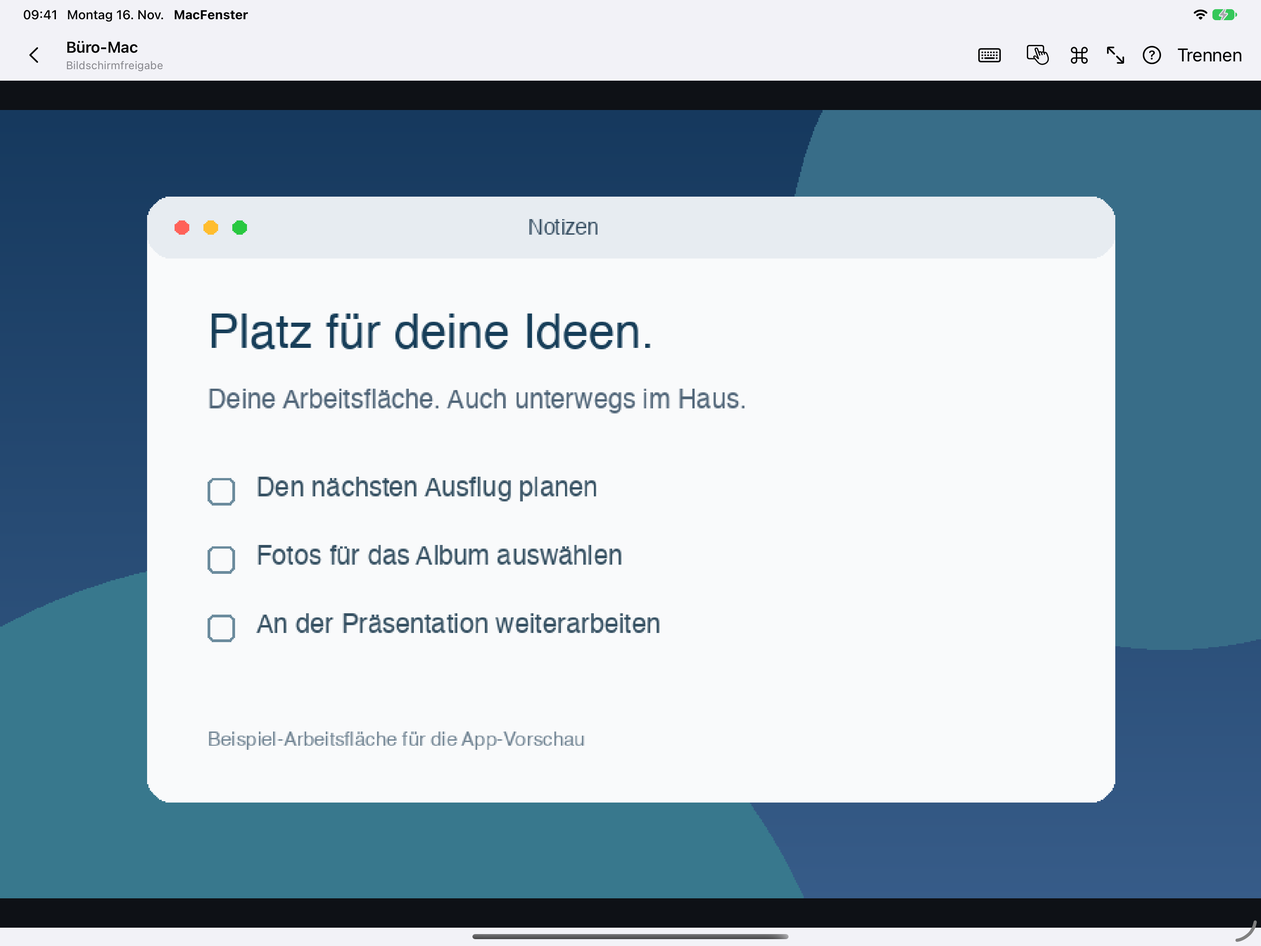
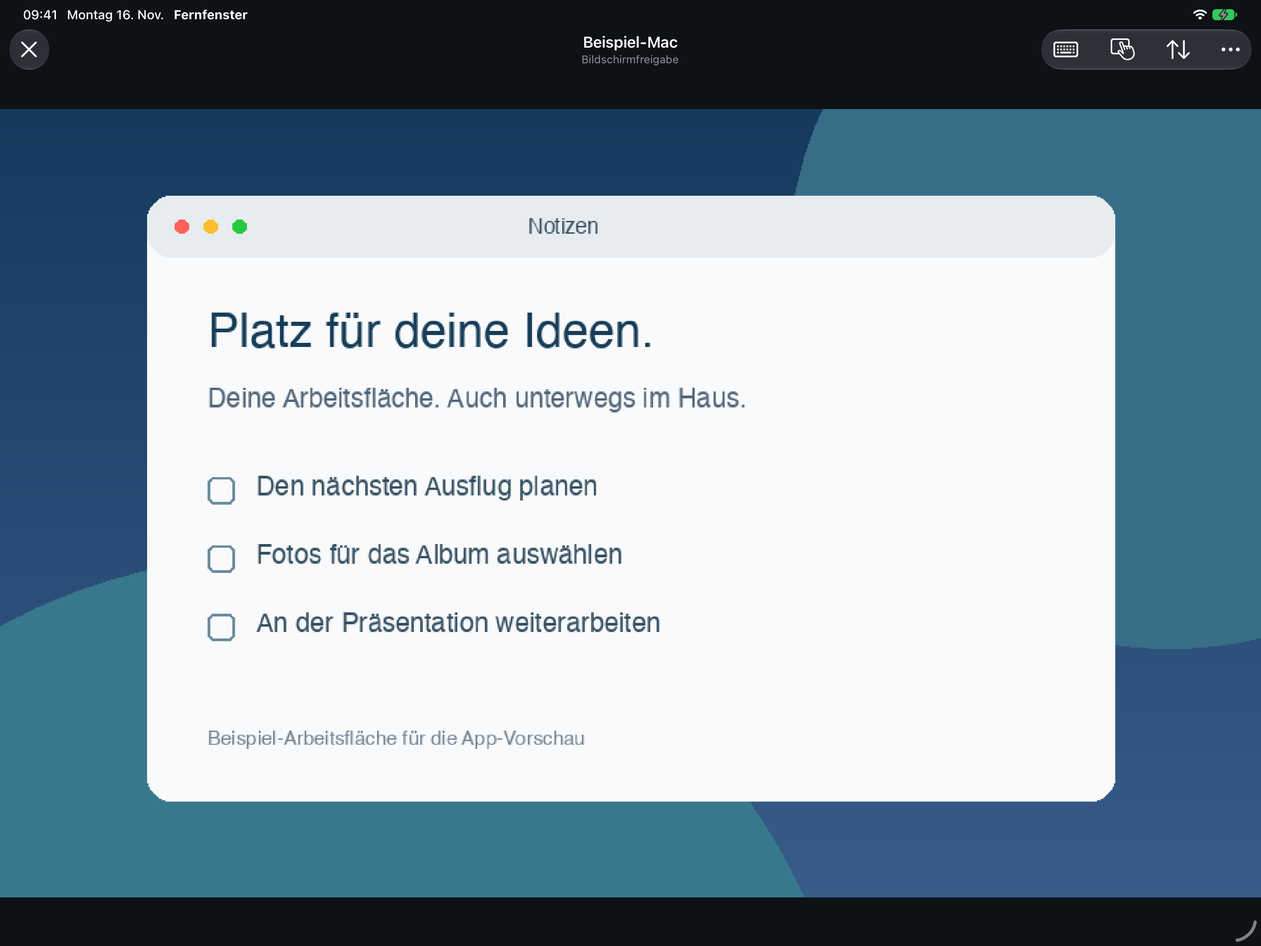
Publish Fernfenster branding and current build 19 images and source

diff --git a/index.html b/index.html
@@ -4,14 +4,14 @@
   <meta charset="utf-8">
   <meta name="viewport" content="width=device-width,initial-scale=1">
   <meta name="robots" content="noindex,nofollow">
-  <meta name="description" content="Deinen Mac auf iPad und iPhone bedienen. MacFenster verbindet sich direkt mit der eingebauten Bildschirmfreigabe – im gemeinsamen lokalen Netzwerk.">
-  <title>MacFenster – Bildschirmfreigabe auf iPad und iPhone</title>
+  <meta name="description" content="Deinen Mac auf iPad und iPhone bedienen. Fernfenster verbindet sich direkt mit der eingebauten Bildschirmfreigabe – im gemeinsamen lokalen Netzwerk.">
+  <title>Fernfenster – Bildschirmfreigabe auf iPad und iPhone</title>
   <link rel="icon" href="assets/portal.png" type="image/png">
   <link rel="stylesheet" href="styles.css">
   <link rel="canonical" href="https://nature0ne.github.io/macfenster-website/">
   <meta property="og:type" content="website">
   <meta property="og:url" content="https://nature0ne.github.io/macfenster-website/">
-  <meta property="og:title" content="MacFenster – Dein Mac auf iPad und iPhone.">
+  <meta property="og:title" content="Fernfenster – Dein Mac auf iPad und iPhone.">
   <meta property="og:description" content="Einfache Bildschirmfreigabe für deinen Mac. Direkt im selben Netzwerk mit Touch, Trackpad und Tastatur bedienen.">
   <meta property="og:image" content="https://nature0ne.github.io/macfenster-website/assets/share-screen-sharing.png">
   <meta name="twitter:card" content="summary_large_image">
@@ -19,7 +19,7 @@
 <body>
   <a class="skip" href="#inhalt">Zum Inhalt</a>
   <header class="site-header wrap">
-    <a class="brand" href="#" aria-label="MacFenster Startseite"><img src="assets/portal.png" width="44" height="44" alt=""><span>MacFenster</span></a>
+    <a class="brand" href="#" aria-label="Fernfenster Startseite"><img src="assets/portal.png" width="44" height="44" alt=""><span>Fernfenster</span></a>
     <nav aria-label="Hauptnavigation"><a href="#arbeitsflaeche">Arbeitsfläche</a><a href="#einrichten">Einrichten</a><a href="https://nature0ne.github.io/macfenster-website/support.html">Support <span aria-hidden="true">↗</span></a></nav>
   </header>
 
@@ -34,7 +34,7 @@
       </div>
       <figure class="hero-visual">
         <div class="window-outline outline-back" aria-hidden="true"></div><div class="window-outline outline-front" aria-hidden="true"></div>
-        <div class="app-window"><img src="assets/ipad-screen-sharing.png" width="2752" height="2064" alt="MacFenster auf dem iPad mit einer neutralen Beispiel-Arbeitsfläche über Bildschirmfreigabe." fetchpriority="high"></div>
+        <div class="app-window"><img src="assets/ipad-screen-sharing.png" width="2752" height="2064" alt="Fernfenster auf dem iPad mit einer neutralen Beispiel-Arbeitsfläche über Bildschirmfreigabe." fetchpriority="high"></div>
         <figcaption><span class="caption-line" aria-hidden="true"></span>Deinen Mac direkt auf dem iPad bedienen.</figcaption>
       </figure>
     </section>
@@ -43,7 +43,7 @@
 
     <section class="workspace wrap" id="arbeitsflaeche" aria-labelledby="workspace-title">
       <div><p class="eyebrow">Mehr als ein kleineres Bild</p><h2 id="workspace-title">Ein Fenster.<br>Passend zu dir.</h2></div>
-      <div class="workspace-copy"><p class="large-copy">Eine gut lesbare Arbeitsfläche auf deinem iPad. Oder ein Mac-Desktop, der sich mit deinem iPhone dreht.</p><p>Auf unterstützten Macs öffnet MacFenster einen nativen virtuellen Bildschirm. Er passt sich an die sichtbare Fläche deines Geräts an. Der physische Mac-Bildschirm bleibt separat.</p><p>Mit <strong>„Physischer Bildschirm“</strong> wechselst du zurück. Beim Umschalten verbindet sich die App kurz neu.</p><div class="window-pair" aria-hidden="true"><span></span><span></span></div></div>
+      <div class="workspace-copy"><p class="large-copy">Eine gut lesbare Arbeitsfläche auf deinem iPad. Oder ein Mac-Desktop, der sich mit deinem iPhone dreht.</p><p>Auf unterstützten Macs öffnet Fernfenster einen nativen virtuellen Bildschirm. Er passt sich an die sichtbare Fläche deines Geräts an. Der physische Mac-Bildschirm bleibt separat.</p><p>Mit <strong>„Physischer Bildschirm“</strong> wechselst du zurück. Beim Umschalten verbindet sich die App kurz neu.</p><div class="window-pair" aria-hidden="true"><span></span><span></span></div></div>
     </section>
 
     <section class="input-section wrap" aria-labelledby="input-title">
@@ -52,20 +52,20 @@
     </section>
 
     <section class="setup" id="einrichten" aria-labelledby="setup-title">
-      <div class="wrap setup-grid"><div class="setup-intro"><p class="eyebrow">Direkt verbunden</p><h2 id="setup-title">Nur dein Mac.<br>Und dein<br>Netzwerk.</h2><p>Kein zusätzliches MacFenster-Konto, kein Vermittlungsserver. Beide Geräte gehören ins gleiche vertrauenswürdige lokale Netzwerk.</p></div>
-      <ol class="setup-steps"><li><span class="step-number" aria-hidden="true">1</span><div><h3>Am Mac freigeben</h3><p>Öffne Systemeinstellungen → Allgemein → Teilen. Aktiviere „Bildschirmfreigabe“ und erlaube deinem Mac-Benutzer den Zugriff.</p></div></li><li><span class="step-number" aria-hidden="true">2</span><div><h3>Deinen Mac finden</h3><p>Erlaube MacFenster den lokalen Netzwerkzugriff. Dein Mac erscheint automatisch. Du kannst auch seine Adresse eingeben.</p></div></li><li><span class="step-number" aria-hidden="true">3</span><div><h3>Mit deinem Mac-Konto anmelden</h3><p>Verwende deinen Mac-Benutzernamen und dein Passwort. Auf Wunsch merkt sich der gerätegebundene Schlüsselbund das Passwort nach erfolgreicher Anmeldung.</p></div></li></ol></div>
+      <div class="wrap setup-grid"><div class="setup-intro"><p class="eyebrow">Direkt verbunden</p><h2 id="setup-title">Nur dein Mac.<br>Und dein<br>Netzwerk.</h2><p>Kein zusätzliches Fernfenster-Konto, kein Vermittlungsserver. Beide Geräte gehören ins gleiche vertrauenswürdige lokale Netzwerk.</p></div>
+      <ol class="setup-steps"><li><span class="step-number" aria-hidden="true">1</span><div><h3>Am Mac freigeben</h3><p>Öffne Systemeinstellungen → Allgemein → Teilen. Aktiviere „Bildschirmfreigabe“ und erlaube deinem Mac-Benutzer den Zugriff.</p></div></li><li><span class="step-number" aria-hidden="true">2</span><div><h3>Deinen Mac finden</h3><p>Erlaube Fernfenster den lokalen Netzwerkzugriff. Dein Mac erscheint automatisch. Du kannst auch seine Adresse eingeben.</p></div></li><li><span class="step-number" aria-hidden="true">3</span><div><h3>Mit deinem Mac-Konto anmelden</h3><p>Verwende deinen Mac-Benutzernamen und dein Passwort. Auf Wunsch merkt sich der gerätegebundene Schlüsselbund das Passwort nach erfolgreicher Anmeldung.</p></div></li></ol></div>
     </section>
 
     <section class="questions wrap" aria-labelledby="questions-title"><div><p class="eyebrow">Gut zu wissen</p><h2 id="questions-title">Bevor du loslegst.</h2><p class="questions-intro">Noch eine Frage?<br><a class="text-link" href="https://nature0ne.github.io/macfenster-website/support.html">Zum Support <span aria-hidden="true">↗</span></a></p></div><div class="answers">
       <details><summary>Was brauche ich dafür?</summary><p>Ein iPhone oder iPad mit iOS beziehungsweise iPadOS 18 oder neuer und einen Mac mit aktivierter Bildschirmfreigabe. Beide Geräte müssen im selben lokalen Netzwerk sein. Videoübertragung und virtuelle Bildschirme erfordern Unterstützung durch den Mac. Die App-Oberfläche ist auf Deutsch.</p></details>
-      <details><summary>Kann ich mich auch von unterwegs verbinden?</summary><p>MacFenster ist für das gemeinsame lokale Netzwerk gedacht. Ein Internetzugriff oder eine Verbindung zwischen verschiedenen Netzwerken wird nicht eingerichtet.</p></details>
-      <details><summary>Wie werden meine Daten behandelt?</summary><p>Die Verbindung geht direkt zu deinem Mac. MacFenster zeichnet deinen Bildschirm nicht auf. Passwortspeicherung ist freiwillig und an dein Gerät gebunden. Der klassische ARD/RFB-Rückfall verschlüsselt nicht den gesamten Datenstrom – verwende deshalb ein vertrauenswürdiges Netzwerk.</p></details>
+      <details><summary>Kann ich mich auch von unterwegs verbinden?</summary><p>Fernfenster ist für das gemeinsame lokale Netzwerk gedacht. Ein Internetzugriff oder eine Verbindung zwischen verschiedenen Netzwerken wird nicht eingerichtet.</p></details>
+      <details><summary>Wie werden meine Daten behandelt?</summary><p>Die Verbindung geht direkt zu deinem Mac. Fernfenster zeichnet deinen Bildschirm nicht auf. Passwortspeicherung ist freiwillig und an dein Gerät gebunden. Der klassische ARD/RFB-Rückfall verschlüsselt nicht den gesamten Datenstrom – verwende deshalb ein vertrauenswürdiges Netzwerk.</p></details>
       <details><summary>Was passiert, wenn ich die App verlasse?</summary><p>Im Hintergrund endet die Sitzung. Du kannst dich anschließend erneut verbinden.</p></details>
       <details><summary>Sind Audio und Dateitransfer enthalten?</summary><p>Auf unterstützten Macs kannst du Mac-Ton wiedergeben und Dateien bewusst senden oder empfangen. Die automatische Zwischenablage ist zunächst ausgeschaltet und wird in den Einstellungen aktiviert. Audio benötigt den unterstützten Videostream und ist bei voller Bildqualität nicht verfügbar.</p></details>
     </div></section>
 
-    <section class="closing wrap"><img src="assets/portal.png" alt="" width="64" height="64"><div><p>Dein nächstes Fenster zum Mac.</p><span>MacFenster für iPhone und iPad · Veröffentlichung in Vorbereitung</span></div><a class="text-link" href="https://nature0ne.github.io/macfenster-website/support.html">Fragen zur App <span aria-hidden="true">↗</span></a></section>
+    <section class="closing wrap"><img src="assets/portal.png" alt="" width="64" height="64"><div><p>Dein nächstes Fenster zum Mac.</p><span>Fernfenster für iPhone und iPad · Veröffentlichung in Vorbereitung</span></div><a class="text-link" href="https://nature0ne.github.io/macfenster-website/support.html">Fragen zur App <span aria-hidden="true">↗</span></a></section>
   </main>
-  <footer class="site-footer wrap"><p>MacFenster ist eine unabhängige App und kein Produkt von Apple.</p><nav aria-label="Rechtliches"><a href="source.html">Quellcode &amp; Lizenzen</a><a href="https://nature0ne.github.io/macfenster-website/support.html">Support</a><a href="https://nature0ne.github.io/macfenster-website/privacy.html">Datenschutz</a><a href="https://nature0ne.github.io/macfenster-website/impressum.html">Impressum</a></nav></footer>
+  <footer class="site-footer wrap"><p>Fernfenster ist eine unabhängige App und kein Produkt von Apple.</p><nav aria-label="Rechtliches"><a href="source.html">Quellcode &amp; Lizenzen</a><a href="https://nature0ne.github.io/macfenster-website/support.html">Support</a><a href="https://nature0ne.github.io/macfenster-website/privacy.html">Datenschutz</a><a href="https://nature0ne.github.io/macfenster-website/impressum.html">Impressum</a></nav></footer>
 </body>
 </html>

diff --git a/privacy.html b/privacy.html
@@ -1,1 +1,1 @@
-<!doctype html><html lang="de"><head><meta charset="utf-8"><meta name="viewport" content="width=device-width,initial-scale=1"><title>Datenschutzerklärung – MacFenster</title><meta name="description" content="MacFenster: Bildschirmfreigabe für deinen Mac auf iPad und iPhone. Hilfe, Kontakt und Datenschutz."><link rel="icon" href="assets/icon.png"><link rel="stylesheet" href="style.css"></head><body><header><a class="brand" href="index.html"><img src="assets/icon.png" alt="" width="42" height="42">MacFenster</a><nav aria-label="Hauptnavigation"><a href="index.html">Die App</a><a href="support.html">Support</a><a href="privacy.html">Datenschutz</a></nav></header><main><div class="eyebrow">Datenschutz · Stand 16. November 2026</div><h1>Deine Verbindung und deine Daten.</h1><p>Verantwortlich für MacFenster und diese Website: Sascha Bommels, Flandernstr. 18, 46147 Oberhausen, Deutschland. Kontakt: <a href="mailto:stockscansupport+macfenster@gmail.com">stockscansupport+macfenster@gmail.com</a>.</p><h2>Direkte Verbindung zum Mac</h2><p>Die App sucht mit Bonjour nach Bildschirmfreigaben im lokalen Netzwerk. Hostnamen, Adressen und die erforderlichen Zugangsdaten werden zur Verbindung mit dem von dir ausgewählten Mac verwendet. Bildschirmdaten und Eingaben werden direkt zwischen deinen Geräten übertragen. Es gibt keinen MacFenster-Vermittlungsserver und keinen Entwicklerzugriff auf deine Sitzung.</p><h2>Lokale Speicherung</h2><p>Gespeicherte Rechner, Adressen, Benutzernamen und der Zeitpunkt der letzten Verbindung bleiben im App-Bereich auf deinem Gerät. Nur auf Wunsch wird ein Passwort nach erfolgreicher Anmeldung im gerätegebundenen Schlüsselbund gespeichert. Während der laufenden Sitzung hält die App Zugangsdaten im Arbeitsspeicher, auch für einen Wechsel der Bildschirmansicht. Beim Trennen verwirft sie diese Referenzen. Die App zeichnet keine Bildschirmbilder auf und speichert sie nicht als Vorschau.</p><p>Je nach deinen Systemeinstellungen können gespeicherte Rechnerdaten in einem lokalen Gerätebackup oder iCloud-Gerätebackup enthalten sein. Diese von dir verwaltete Systemsicherung ist keine Übermittlung an den MacFenster-Entwickler. Gespeicherte Passwörter sind im Schlüsselbund an das Gerät gebunden und werden nicht über den iCloud-Schlüsselbund synchronisiert.</p><h2>Keine Werbung und kein Tracking in der App</h2><p>MacFenster enthält keine Werbe-SDKs, kein Tracking und keine vom Entwickler betriebene Nutzungsanalyse. Sitzungsdaten werden nicht an den Entwickler hochgeladen. Für App Store, TestFlight sowie von Apple bereitgestellte Kauf- und Diagnosedienste gelten zusätzlich die Einstellungen und Bedingungen von Apple.</p><h2>Löschen und Verbindung beenden</h2><p>„Mac entfernen“ löscht die gespeicherte Verbindung und deren Schlüsselbund-Eintrag. Du kannst die Sitzung jederzeit trennen und den lokalen Netzwerkzugriff in den Geräteeinstellungen entziehen. Der Schutz hängt vom ausgehandelten Protokoll ab: Der klassische ARD/RFB-Rückfall verschlüsselt nicht den gesamten Datenstrom. Verwende ein vertrauenswürdiges Netzwerk.</p><h2>Diese Website</h2><p>Die statische Website nutzt keine Analyse-Skripte, Werbe-Cookies oder extern geladenen Schriftarten. GitHub Pages liefert sie aus. GitHub verarbeitet beim Abruf technische Verbindungsdaten, darunter IP-Adresse und Abrufinformationen, nach seiner <a href="https://docs.github.com/en/site-policy/privacy-policies/github-general-privacy-statement">Datenschutzerklärung</a>. Diese Hosting-Daten stammen nicht aus einer MacFenster-Sitzung.</p><h2>Support</h2><p>Bei einer Anfrage werden deine E-Mail-Adresse und freiwillig übermittelte Angaben zur Bearbeitung genutzt. E-Mail wird über Gmail verarbeitet; siehe <a href="https://policies.google.com/privacy">Google-Datenschutzerklärung</a>. GitHub-Support-Tickets sind öffentlich. Übermittle dort keine vertraulichen Daten.</p><p>Support-Daten werden gelöscht, sobald sie zur Bearbeitung nicht mehr erforderlich sind, soweit keine gesetzlichen Aufbewahrungspflichten bestehen. Rechtsgrundlage für produktbezogene Anfragen ist Art. 6 Abs. 1 lit. b DSGVO, für sonstige berechtigte Anliegen Art. 6 Abs. 1 lit. f DSGVO.</p><h2>Deine Rechte</h2><p>Soweit personenbezogene Daten verarbeitet werden, bestehen insbesondere Rechte auf Auskunft, Berichtigung, Löschung und Einschränkung sowie gegebenenfalls Widerspruch und Datenübertragbarkeit. Du kannst dich bei einer Datenschutzaufsichtsbehörde beschweren. Kontakt für Anfragen: <a href="mailto:stockscansupport+macfenster@gmail.com">stockscansupport+macfenster@gmail.com</a>.</p></main><footer><nav aria-label="Rechtliches"><a href="support.html">Support</a><a href="source.html">Quellcode &amp; Lizenzen</a><a href="privacy.html">Datenschutz</a><a href="impressum.html">Impressum</a></nav>© 2026 Sascha Bommels · Unabhängige App für iPhone und iPad.</footer></body></html>
+<!doctype html><html lang="de"><head><meta charset="utf-8"><meta name="viewport" content="width=device-width,initial-scale=1"><title>Datenschutzerklärung – Fernfenster</title><meta name="description" content="Fernfenster: Bildschirmfreigabe für deinen Mac auf iPad und iPhone. Hilfe, Kontakt und Datenschutz."><link rel="icon" href="assets/icon.png"><link rel="stylesheet" href="style.css"></head><body><header><a class="brand" href="index.html"><img src="assets/icon.png" alt="" width="42" height="42">Fernfenster</a><nav aria-label="Hauptnavigation"><a href="index.html">Die App</a><a href="support.html">Support</a><a href="privacy.html">Datenschutz</a></nav></header><main><div class="eyebrow">Datenschutz · Stand 16. November 2026</div><h1>Deine Verbindung und deine Daten.</h1><p>Verantwortlich für Fernfenster und diese Website: Sascha Bommels, Flandernstr. 18, 46147 Oberhausen, Deutschland. Kontakt: <a href="mailto:stockscansupport+macfenster@gmail.com">stockscansupport+macfenster@gmail.com</a>.</p><h2>Direkte Verbindung zum Mac</h2><p>Die App sucht mit Bonjour nach Bildschirmfreigaben im lokalen Netzwerk. Hostnamen, Adressen und die erforderlichen Zugangsdaten werden zur Verbindung mit dem von dir ausgewählten Mac verwendet. Bildschirmdaten und Eingaben werden direkt zwischen deinen Geräten übertragen. Es gibt keinen Fernfenster-Vermittlungsserver und keinen Entwicklerzugriff auf deine Sitzung.</p><h2>Lokale Speicherung</h2><p>Gespeicherte Rechner, Adressen, Benutzernamen und der Zeitpunkt der letzten Verbindung bleiben im App-Bereich auf deinem Gerät. Nur auf Wunsch wird ein Passwort nach erfolgreicher Anmeldung im gerätegebundenen Schlüsselbund gespeichert. Während der laufenden Sitzung hält die App Zugangsdaten im Arbeitsspeicher, auch für einen Wechsel der Bildschirmansicht. Beim Trennen verwirft sie diese Referenzen. Die App zeichnet keine Bildschirmbilder auf und speichert sie nicht als Vorschau.</p><p>Je nach deinen Systemeinstellungen können gespeicherte Rechnerdaten in einem lokalen Gerätebackup oder iCloud-Gerätebackup enthalten sein. Diese von dir verwaltete Systemsicherung ist keine Übermittlung an den Fernfenster-Entwickler. Gespeicherte Passwörter sind im Schlüsselbund an das Gerät gebunden und werden nicht über den iCloud-Schlüsselbund synchronisiert.</p><h2>Keine Werbung und kein Tracking in der App</h2><p>Fernfenster enthält keine Werbe-SDKs, kein Tracking und keine vom Entwickler betriebene Nutzungsanalyse. Sitzungsdaten werden nicht an den Entwickler hochgeladen. Für App Store, TestFlight sowie von Apple bereitgestellte Kauf- und Diagnosedienste gelten zusätzlich die Einstellungen und Bedingungen von Apple.</p><h2>Löschen und Verbindung beenden</h2><p>„Mac entfernen“ löscht die gespeicherte Verbindung und deren Schlüsselbund-Eintrag. Du kannst die Sitzung jederzeit trennen und den lokalen Netzwerkzugriff in den Geräteeinstellungen entziehen. Der Schutz hängt vom ausgehandelten Protokoll ab: Der klassische ARD/RFB-Rückfall verschlüsselt nicht den gesamten Datenstrom. Verwende ein vertrauenswürdiges Netzwerk.</p><h2>Diese Website</h2><p>Die statische Website nutzt keine Analyse-Skripte, Werbe-Cookies oder extern geladenen Schriftarten. GitHub Pages liefert sie aus. GitHub verarbeitet beim Abruf technische Verbindungsdaten, darunter IP-Adresse und Abrufinformationen, nach seiner <a href="https://docs.github.com/en/site-policy/privacy-policies/github-general-privacy-statement">Datenschutzerklärung</a>. Diese Hosting-Daten stammen nicht aus einer Fernfenster-Sitzung.</p><h2>Support</h2><p>Bei einer Anfrage werden deine E-Mail-Adresse und freiwillig übermittelte Angaben zur Bearbeitung genutzt. E-Mail wird über Gmail verarbeitet; siehe <a href="https://policies.google.com/privacy">Google-Datenschutzerklärung</a>. GitHub-Support-Tickets sind öffentlich. Übermittle dort keine vertraulichen Daten.</p><p>Support-Daten werden gelöscht, sobald sie zur Bearbeitung nicht mehr erforderlich sind, soweit keine gesetzlichen Aufbewahrungspflichten bestehen. Rechtsgrundlage für produktbezogene Anfragen ist Art. 6 Abs. 1 lit. b DSGVO, für sonstige berechtigte Anliegen Art. 6 Abs. 1 lit. f DSGVO.</p><h2>Deine Rechte</h2><p>Soweit personenbezogene Daten verarbeitet werden, bestehen insbesondere Rechte auf Auskunft, Berichtigung, Löschung und Einschränkung sowie gegebenenfalls Widerspruch und Datenübertragbarkeit. Du kannst dich bei einer Datenschutzaufsichtsbehörde beschweren. Kontakt für Anfragen: <a href="mailto:stockscansupport+macfenster@gmail.com">stockscansupport+macfenster@gmail.com</a>.</p></main><footer><nav aria-label="Rechtliches"><a href="support.html">Support</a><a href="source.html">Quellcode &amp; Lizenzen</a><a href="privacy.html">Datenschutz</a><a href="impressum.html">Impressum</a></nav>© 2026 Sascha Bommels · Unabhängige App für iPhone und iPad.</footer></body></html>

diff --git a/source.html b/source.html
@@ -1,7 +1,11 @@
 <!doctype html>
-<html lang="de"><head><meta charset="utf-8"><meta name="viewport" content="width=device-width,initial-scale=1"><title>Quellcode &amp; Lizenzen – MacFenster</title><meta name="description" content="Vollständiger MacFenster-Quellcode unter GPLv3 mit Bibliotheken, Bauanleitung und Prüfsummen."><link rel="icon" href="assets/icon.png"><link rel="stylesheet" href="style.css"><link rel="canonical" href="https://nature0ne.github.io/macfenster-website/source.html"></head>
-<body><header><a class="brand" href="index.html"><img src="assets/icon.png" alt="" width="42" height="42">MacFenster</a><nav aria-label="Hauptnavigation"><a href="index.html">Die App</a><a href="support.html">Support</a><a href="source.html" aria-current="page">Quellcode</a></nav></header>
-<main><div class="eyebrow">Quellcode &amp; Lizenzen</div><h1>Offen zum Nachbauen.</h1><p class="lead">MacFenster steht unter der GNU General Public License, Version 3 oder neuer. Hier erhältst du den vollständigen Quellcode samt Bibliotheken und Bauanleitung ohne zusätzliche Kosten.</p>
+<html lang="de"><head><meta charset="utf-8"><meta name="viewport" content="width=device-width,initial-scale=1"><title>Quellcode &amp; Lizenzen – Fernfenster</title><meta name="description" content="Vollständiger Fernfenster-Quellcode unter GPLv3 mit Bibliotheken, Bauanleitung und Prüfsummen."><link rel="icon" href="assets/icon.png"><link rel="stylesheet" href="style.css"><link rel="canonical" href="https://nature0ne.github.io/macfenster-website/source.html"></head>
+<body><header><a class="brand" href="index.html"><img src="assets/icon.png" alt="" width="42" height="42">Fernfenster</a><nav aria-label="Hauptnavigation"><a href="index.html">Die App</a><a href="support.html">Support</a><a href="source.html" aria-current="page">Quellcode</a></nav></header>
+<main><div class="eyebrow">Quellcode &amp; Lizenzen</div><h1>Offen zum Nachbauen.</h1><p class="lead">Fernfenster steht unter der GNU General Public License, Version 3 oder neuer. Hier erhältst du den vollständigen Quellcode samt Bibliotheken und Bauanleitung ohne zusätzliche Kosten.</p>
+<p>Frühere Testversionen wurden unter dem Namen MacFenster veröffentlicht. Die folgenden Quellcode-Pakete behalten ihre ursprünglichen Dateinamen und Prüfsummen.</p>
+<h2>Fernfenster 1.0 · Beta-Build 19</h2><p>Dieses Paket gehört zu Fernfenster, dem neuen Namen der zuvor als MacFenster getesteten App. Der interne Projektname bleibt für bestehende Verbindungen und Zugangsdaten erhalten. Funktionen und Standards der nativen Bildschirmfreigabe bleiben bestehen.</p>
+<p><a class="button" href="https://github.com/Nature0ne/macfenster-website/releases/download/source-1.0-build19/Fernfenster-1.0-build19-Source.zip">Quellcode zu Build 19 herunterladen · 179,6 MiB</a></p><p><a href="https://github.com/Nature0ne/macfenster-website/releases/download/source-1.0-build19/Fernfenster-1.0-build19-Source.zip.sha256">SHA-256-Prüfsumme herunterladen</a> · <a href="https://github.com/Nature0ne/macfenster-website/releases/tag/source-1.0-build19">Versionierte Downloadseite</a></p>
+<p>SHA-256: <code style="overflow-wrap:anywhere">0dbce93f5ad74f9e4df2643779e1d432cee5b0f0468317ae549c5425883803bf</code></p>
 <h2>Version 1.0 · Beta-Build 18</h2><p>Dieses Paket gehört zur Testversion mit der neuen nativen Oberfläche: angepasste Mac-Übersicht, System-Werkzeugleisten, lesbare Formulare und Unterstützung großer Schrift. Die Funktionen aus Build 17 bleiben erhalten. Nutze immer das zu deiner installierten Buildnummer passende Paket.</p>
 <p><a class="button" href="https://github.com/Nature0ne/macfenster-website/releases/download/source-1.0-build18/MacFenster-1.0-build18-Source.zip">Quellcode zu Build 18 herunterladen · 179,6 MiB</a></p><p><a href="https://github.com/Nature0ne/macfenster-website/releases/download/source-1.0-build18/MacFenster-1.0-build18-Source.zip.sha256">SHA-256-Prüfsumme herunterladen</a> · <a href="https://github.com/Nature0ne/macfenster-website/releases/tag/source-1.0-build18">Versionierte Downloadseite</a></p>
 <p>SHA-256: <code style="overflow-wrap:anywhere">076ca5ee0d71455dc6a8e532430a91306cb9c4afe81d5368f53a61683249216d</code></p>
@@ -11,7 +15,7 @@
 <h2>Version 1.0 · Build 16</h2><p>Die App-Store-Veröffentlichung wird vorbereitet. Dieses Paket enthält den zu Build 16 gehörenden Quellcode für iPhone und iPad.</p>
 <p><a class="button" href="https://github.com/Nature0ne/macfenster-website/releases/download/source-1.0-build16/MacFenster-1.0-build16-Source.zip">Quellcode herunterladen · 179,5 MiB</a></p><p><a href="https://github.com/Nature0ne/macfenster-website/releases/download/source-1.0-build16/MacFenster-1.0-build16-Source.zip.sha256">SHA-256-Prüfsumme herunterladen</a> · <a href="https://github.com/Nature0ne/macfenster-website/releases/tag/source-1.0-build16">Versionierte Downloadseite</a></p>
 <p>SHA-256: <code style="overflow-wrap:anywhere">651ab1651aaa1c42d9588251907b5025105bdbb9f150dfe637dc88208885bc96</code></p>
-<h2>Was ist enthalten?</h2><ul><li>MacFenster-App, Protokollkern, Icon-Quellen und Xcode-Projekt.</li><li>Die festgelegten Swift- und Go-Bibliotheken mit ihren Lizenzhinweisen.</li><li>Bauanleitung, Skript für einen unsignierten Nachbau und Datei-Prüfsummen.</li></ul><p>Das Build-16-Paket wurde mit Xcode und Go neu gebaut: für iOS und den iOS-Simulator beim Protokollkern sowie als unsignierte iOS-App. Build 17 enthält dieselben festgelegten Abhängigkeiten und den aktualisierten App-Quellcode. Build 18 verwendet ebenfalls diese unveränderten Abhängigkeiten. Der App-Teil von Build 18 wurde aus dem entpackten Paket erfolgreich unsigniert gebaut, mit dem bereits geprüften Protokollkern. Ein vollständiger erneuter Offline-Nachbau einschließlich des Go-Kerns wurde für Build 17 und 18 nicht durchgeführt. Für eine eigene Installation benötigst du die Apple-Werkzeuge und eine eigene Signierung. Die Anleitung steht in <code>SOURCE_README.md</code> im Paket.</p>
-<h2>Deine Rechte am Code</h2><p>Die GPL erlaubt die Nutzung, Untersuchung, Änderung und Weitergabe unter ihren Bedingungen. Ein App-Kaufpreis ändert diese Rechte nicht. Die ursprünglichen Urheber- und Lizenzhinweise der eingebundenen Bibliotheken bleiben erhalten. Es gelten die Gewährleistungshinweise der Lizenzen und zwingende gesetzliche Rechte.</p><p><a href="gpl-3.0.txt">Vollständiger GPLv3-Lizenztext</a> · <a href="third-party-licenses.txt">Lizenzhinweise der Bibliotheken</a></p><p>MacFenster ist unabhängig von Apple und den Entwicklern von OpenScreenSharing/Libsharing. Der Download enthält Quellcode; er ist kein fertig signiertes App-Installationspaket.</p>
+<h2>Was ist enthalten?</h2><ul><li>App-Quellcode von Fernfenster und den früheren Testversionen unter MacFenster, Protokollkern, Icon-Quellen und Xcode-Projekt.</li><li>Die festgelegten Swift- und Go-Bibliotheken mit ihren Lizenzhinweisen.</li><li>Bauanleitung, Skript für einen unsignierten Nachbau und Datei-Prüfsummen.</li></ul><p>Das Build-16-Paket wurde mit Xcode und Go neu gebaut: für iOS und den iOS-Simulator beim Protokollkern sowie als unsignierte iOS-App. Build 17 enthält dieselben festgelegten Abhängigkeiten und den aktualisierten App-Quellcode. Build 18 verwendet ebenfalls diese unveränderten Abhängigkeiten. Der App-Teil von Build 18 wurde aus dem entpackten Paket erfolgreich unsigniert gebaut, mit dem bereits geprüften Protokollkern. Auch der App-Teil von Fernfenster Build 19 wurde aus seinem entpackten Paket erfolgreich unsigniert gebaut, mit dem bereits geprüften, unveränderten Protokollkern. Ein vollständiger erneuter Offline-Nachbau einschließlich des Go-Kerns wurde für Build 17, 18 und 19 nicht durchgeführt. Für eine eigene Installation benötigst du die Apple-Werkzeuge und eine eigene Signierung. Die Anleitung steht in <code>SOURCE_README.md</code> im Paket.</p>
+<h2>Deine Rechte am Code</h2><p>Die GPL erlaubt die Nutzung, Untersuchung, Änderung und Weitergabe unter ihren Bedingungen. Ein App-Kaufpreis ändert diese Rechte nicht. Die ursprünglichen Urheber- und Lizenzhinweise der eingebundenen Bibliotheken bleiben erhalten. Es gelten die Gewährleistungshinweise der Lizenzen und zwingende gesetzliche Rechte.</p><p><a href="gpl-3.0.txt">Vollständiger GPLv3-Lizenztext</a> · <a href="third-party-licenses.txt">Lizenzhinweise der Bibliotheken</a></p><p>Fernfenster ist unabhängig von Apple und den Entwicklern von OpenScreenSharing/Libsharing. Der Download enthält Quellcode; er ist kein fertig signiertes App-Installationspaket.</p>
 <h2>Fragen zum Quellcode?</h2><p><a href="mailto:stockscansupport+macfenster@gmail.com">stockscansupport+macfenster@gmail.com</a></p></main>
 <footer><nav aria-label="Rechtliches"><a href="support.html">Support</a><a href="source.html">Quellcode &amp; Lizenzen</a><a href="privacy.html">Datenschutz</a><a href="impressum.html">Impressum</a></nav>© 2026 Sascha Bommels · Unabhängige App für iPhone und iPad.</footer></body></html>

diff --git a/support.html b/support.html
@@ -1,1 +1,1 @@
-<!doctype html><html lang="de"><head><meta charset="utf-8"><meta name="viewport" content="width=device-width,initial-scale=1"><title>Support – MacFenster</title><meta name="description" content="MacFenster: Bildschirmfreigabe für deinen Mac auf iPad und iPhone. Hilfe, Kontakt und Datenschutz."><link rel="icon" href="assets/icon.png"><link rel="stylesheet" href="style.css"></head><body><header><a class="brand" href="index.html"><img src="assets/icon.png" alt="" width="42" height="42">MacFenster</a><nav aria-label="Hauptnavigation"><a href="index.html">Die App</a><a href="support.html">Support</a><a href="privacy.html">Datenschutz</a></nav></header><main><div class="eyebrow">Hilfe &amp; Kontakt</div><h1>Verbinde deinen Mac.</h1><ol><li>Öffne am Mac <strong>Systemeinstellungen → Allgemein → Teilen</strong>.</li><li>Aktiviere <strong>Bildschirmfreigabe</strong> und erlaube deinem Mac-Benutzer den Zugriff. Ein zusätzliches VNC-Passwort ist nicht erforderlich.</li><li>Verbinde iPhone oder iPad mit demselben Netzwerk. Erlaube MacFenster den lokalen Netzwerkzugriff.</li><li>Wähle deinen Mac aus und melde dich mit deinem Mac-Benutzerkonto an.</li></ol><details><summary>Mein Mac erscheint nicht.</summary><p>Prüfe Netzwerk und Bildschirmfreigabe. Nutze „Mac hinzufügen“ für seine .local-Adresse oder IP-Adresse. Prüfe in den iOS-Einstellungen den lokalen Netzwerkzugriff für MacFenster.</p></details><details><summary>Auf dem 5K-Monitor ist alles zu klein.</summary><p>Öffne <strong>Ansicht → Dynamische Auflösung</strong>. Unterstützte Macs stellen eine virtuelle Arbeitsfläche passend zum Gerät bereit. Der physische Monitor bleibt separat. Mit <strong>Physischer Bildschirm</strong> wechselst du zurück; dabei verbindet sich die App kurz neu.</p></details><details><summary>Wie bediene ich den Mac?</summary><p>Tippen klickt, zweimal Tippen doppelklickt, mit zwei Fingern Tippen rechtsklickt. Kurz halten und ziehen bewegt Objekte. Zwei Finger scrollen, Auseinanderziehen zoomt, drei Finger verschieben den vergrößerten Ausschnitt. Maus, Trackpad und externe Tastatur werden unterstützt.</p></details><details><summary>Die Verbindung ruckelt.</summary><p>Prüfe den verwendeten WLAN-Zugangspunkt. „Volle Bildqualität“ kann bei Bewegung langsamer sein. Eine Sitzung endet, wenn du die App in den Hintergrund wechselst.</p></details><h2>Quellcode &amp; Lizenzen</h2><p>Den vollständigen GPL-Quellcode mit Bibliotheken und Bauanleitung findest du auf der <a href="source.html">Quellcode-Seite</a>.</p><h2>Schreib uns</h2><p><a href="mailto:stockscansupport+macfenster@gmail.com">stockscansupport+macfenster@gmail.com</a></p><p>Nenne App-Version, Gerätemodell und Betriebssystemversionen sowie die Schritte bis zum Problem. Sende keine Passwörter und prüfe Bildschirmfotos auf persönliche Inhalte.</p><p>Alternativ: <a href="https://github.com/Nature0ne/macfenster-website/issues/new">öffentliches GitHub-Support-Ticket</a>. Tickets und deren Inhalte sind öffentlich sichtbar.</p></main><footer><nav aria-label="Rechtliches"><a href="support.html">Support</a><a href="source.html">Quellcode &amp; Lizenzen</a><a href="privacy.html">Datenschutz</a><a href="impressum.html">Impressum</a></nav>© 2026 Sascha Bommels · Unabhängige App für iPhone und iPad.</footer></body></html>
+<!doctype html><html lang="de"><head><meta charset="utf-8"><meta name="viewport" content="width=device-width,initial-scale=1"><title>Support – Fernfenster</title><meta name="description" content="Fernfenster: Bildschirmfreigabe für deinen Mac auf iPad und iPhone. Hilfe, Kontakt und Datenschutz."><link rel="icon" href="assets/icon.png"><link rel="stylesheet" href="style.css"></head><body><header><a class="brand" href="index.html"><img src="assets/icon.png" alt="" width="42" height="42">Fernfenster</a><nav aria-label="Hauptnavigation"><a href="index.html">Die App</a><a href="support.html">Support</a><a href="privacy.html">Datenschutz</a></nav></header><main><div class="eyebrow">Hilfe &amp; Kontakt</div><h1>Verbinde deinen Mac.</h1><ol><li>Öffne am Mac <strong>Systemeinstellungen → Allgemein → Teilen</strong>.</li><li>Aktiviere <strong>Bildschirmfreigabe</strong> und erlaube deinem Mac-Benutzer den Zugriff. Ein zusätzliches VNC-Passwort ist nicht erforderlich.</li><li>Verbinde iPhone oder iPad mit demselben Netzwerk. Erlaube Fernfenster den lokalen Netzwerkzugriff.</li><li>Wähle deinen Mac aus und melde dich mit deinem Mac-Benutzerkonto an.</li></ol><details><summary>Mein Mac erscheint nicht.</summary><p>Prüfe Netzwerk und Bildschirmfreigabe. Nutze „Mac hinzufügen“ für seine .local-Adresse oder IP-Adresse. Prüfe in den iOS-Einstellungen den lokalen Netzwerkzugriff für Fernfenster.</p></details><details><summary>Auf dem 5K-Monitor ist alles zu klein.</summary><p>Öffne <strong>Ansicht → Dynamische Auflösung</strong>. Unterstützte Macs stellen eine virtuelle Arbeitsfläche passend zum Gerät bereit. Der physische Monitor bleibt separat. Mit <strong>Physischer Bildschirm</strong> wechselst du zurück; dabei verbindet sich die App kurz neu.</p></details><details><summary>Wie bediene ich den Mac?</summary><p>Tippen klickt, zweimal Tippen doppelklickt, mit zwei Fingern Tippen rechtsklickt. Kurz halten und ziehen bewegt Objekte. Zwei Finger scrollen, Auseinanderziehen zoomt, drei Finger verschieben den vergrößerten Ausschnitt. Maus, Trackpad und externe Tastatur werden unterstützt.</p></details><details><summary>Die Verbindung ruckelt.</summary><p>Prüfe den verwendeten WLAN-Zugangspunkt. „Volle Bildqualität“ kann bei Bewegung langsamer sein. Eine Sitzung endet, wenn du die App in den Hintergrund wechselst.</p></details><h2>Quellcode &amp; Lizenzen</h2><p>Den vollständigen GPL-Quellcode mit Bibliotheken und Bauanleitung findest du auf der <a href="source.html">Quellcode-Seite</a>.</p><h2>Schreib uns</h2><p><a href="mailto:stockscansupport+macfenster@gmail.com">stockscansupport+macfenster@gmail.com</a></p><p>Nenne App-Version, Gerätemodell und Betriebssystemversionen sowie die Schritte bis zum Problem. Sende keine Passwörter und prüfe Bildschirmfotos auf persönliche Inhalte.</p><p>Alternativ: <a href="https://github.com/Nature0ne/macfenster-website/issues/new">öffentliches GitHub-Support-Ticket</a>. Tickets und deren Inhalte sind öffentlich sichtbar.</p></main><footer><nav aria-label="Rechtliches"><a href="support.html">Support</a><a href="source.html">Quellcode &amp; Lizenzen</a><a href="privacy.html">Datenschutz</a><a href="impressum.html">Impressum</a></nav>© 2026 Sascha Bommels · Unabhängige App für iPhone und iPad.</footer></body></html>

diff --git a/impressum.html b/impressum.html
@@ -1,1 +1,1 @@
-<!doctype html><html lang="de"><head><meta charset="utf-8"><meta name="viewport" content="width=device-width,initial-scale=1"><title>Impressum – MacFenster</title><meta name="description" content="MacFenster: Bildschirmfreigabe für deinen Mac auf iPad und iPhone. Hilfe, Kontakt und Datenschutz."><link rel="icon" href="assets/icon.png"><link rel="stylesheet" href="style.css"></head><body><header><a class="brand" href="index.html"><img src="assets/icon.png" alt="" width="42" height="42">MacFenster</a><nav aria-label="Hauptnavigation"><a href="index.html">Die App</a><a href="support.html">Support</a><a href="privacy.html">Datenschutz</a></nav></header><main><div class="eyebrow">Anbieter</div><h1>Impressum</h1><h2>Angaben gemäß § 5 DDG</h2><address>Sascha Bommels<br>Flandernstr. 18<br>46147 Oberhausen<br>Deutschland</address><p>E-Mail: <a href="mailto:stockscansupport+macfenster@gmail.com">stockscansupport+macfenster@gmail.com</a></p><h2>Verantwortlich für den Inhalt</h2><p>Sascha Bommels, Anschrift wie oben.</p><h2>Unabhängiges Produkt</h2><p>Apple Inc. ist nicht Herausgeber dieser App. Apple, Mac, iPhone, iPad, Magic Keyboard und App Store sind Marken von Apple Inc. Weitere Marken gehören ihren jeweiligen Rechteinhabern.</p></main><footer><nav aria-label="Rechtliches"><a href="support.html">Support</a><a href="source.html">Quellcode &amp; Lizenzen</a><a href="privacy.html">Datenschutz</a><a href="impressum.html">Impressum</a></nav>© 2026 Sascha Bommels · Unabhängige App für iPhone und iPad.</footer></body></html>
+<!doctype html><html lang="de"><head><meta charset="utf-8"><meta name="viewport" content="width=device-width,initial-scale=1"><title>Impressum – Fernfenster</title><meta name="description" content="Fernfenster: Bildschirmfreigabe für deinen Mac auf iPad und iPhone. Hilfe, Kontakt und Datenschutz."><link rel="icon" href="assets/icon.png"><link rel="stylesheet" href="style.css"></head><body><header><a class="brand" href="index.html"><img src="assets/icon.png" alt="" width="42" height="42">Fernfenster</a><nav aria-label="Hauptnavigation"><a href="index.html">Die App</a><a href="support.html">Support</a><a href="privacy.html">Datenschutz</a></nav></header><main><div class="eyebrow">Anbieter</div><h1>Impressum</h1><h2>Angaben gemäß § 5 DDG</h2><address>Sascha Bommels<br>Flandernstr. 18<br>46147 Oberhausen<br>Deutschland</address><p>E-Mail: <a href="mailto:stockscansupport+macfenster@gmail.com">stockscansupport+macfenster@gmail.com</a></p><h2>Verantwortlich für den Inhalt</h2><p>Sascha Bommels, Anschrift wie oben.</p><h2>Unabhängiges Produkt</h2><p>Apple Inc. ist nicht Herausgeber dieser App. Apple, Mac, iPhone, iPad, Magic Keyboard und App Store sind Marken von Apple Inc. Weitere Marken gehören ihren jeweiligen Rechteinhabern.</p></main><footer><nav aria-label="Rechtliches"><a href="support.html">Support</a><a href="source.html">Quellcode &amp; Lizenzen</a><a href="privacy.html">Datenschutz</a><a href="impressum.html">Impressum</a></nav>© 2026 Sascha Bommels · Unabhängige App für iPhone und iPad.</footer></body></html>

diff --git a/README.md b/README.md
@@ -1,3 +1,3 @@
-# MacFenster website
+# Fernfenster website
 
-Public support and privacy pages. No app source or credentials.
+Public product, support, privacy and source-download pages. Stable repository/Pages URLs retain the former MacFenster name. Complete versioned corresponding source is provided as GitHub Release assets; the development repository remains private. No credentials or signing material.
